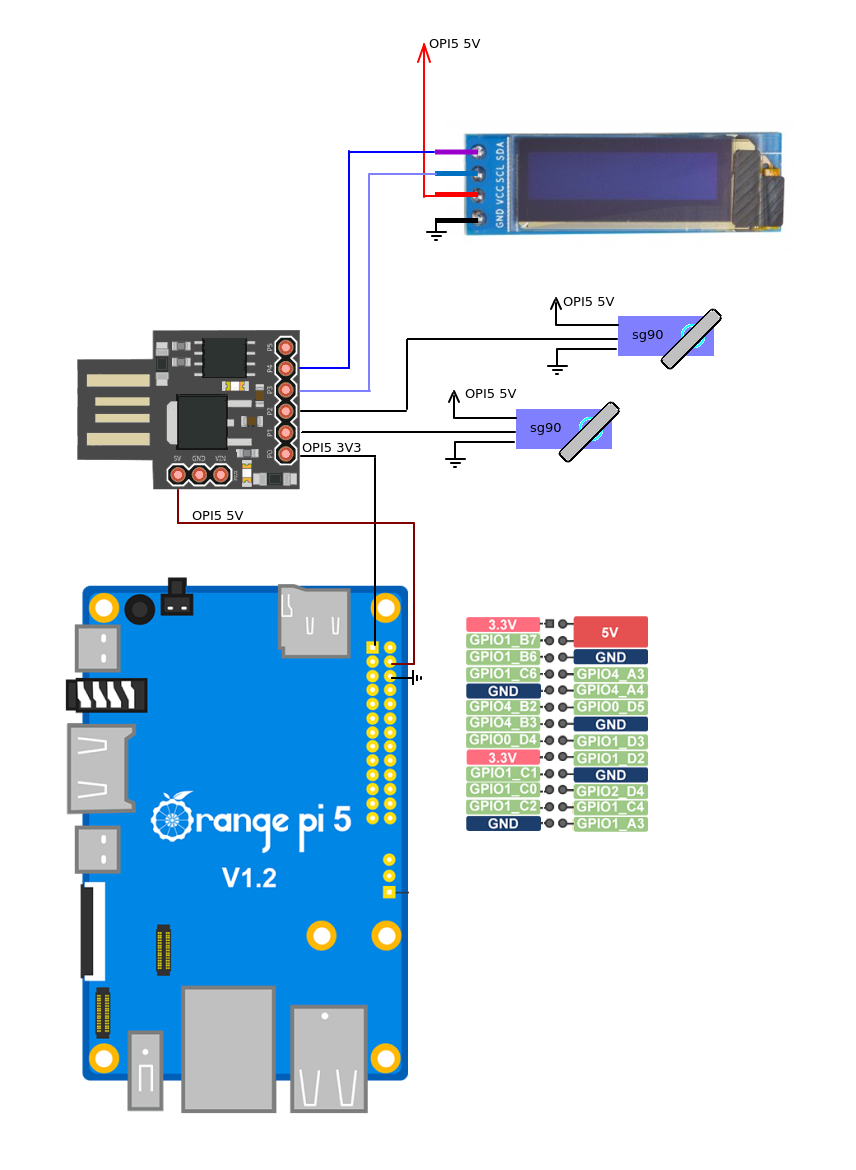
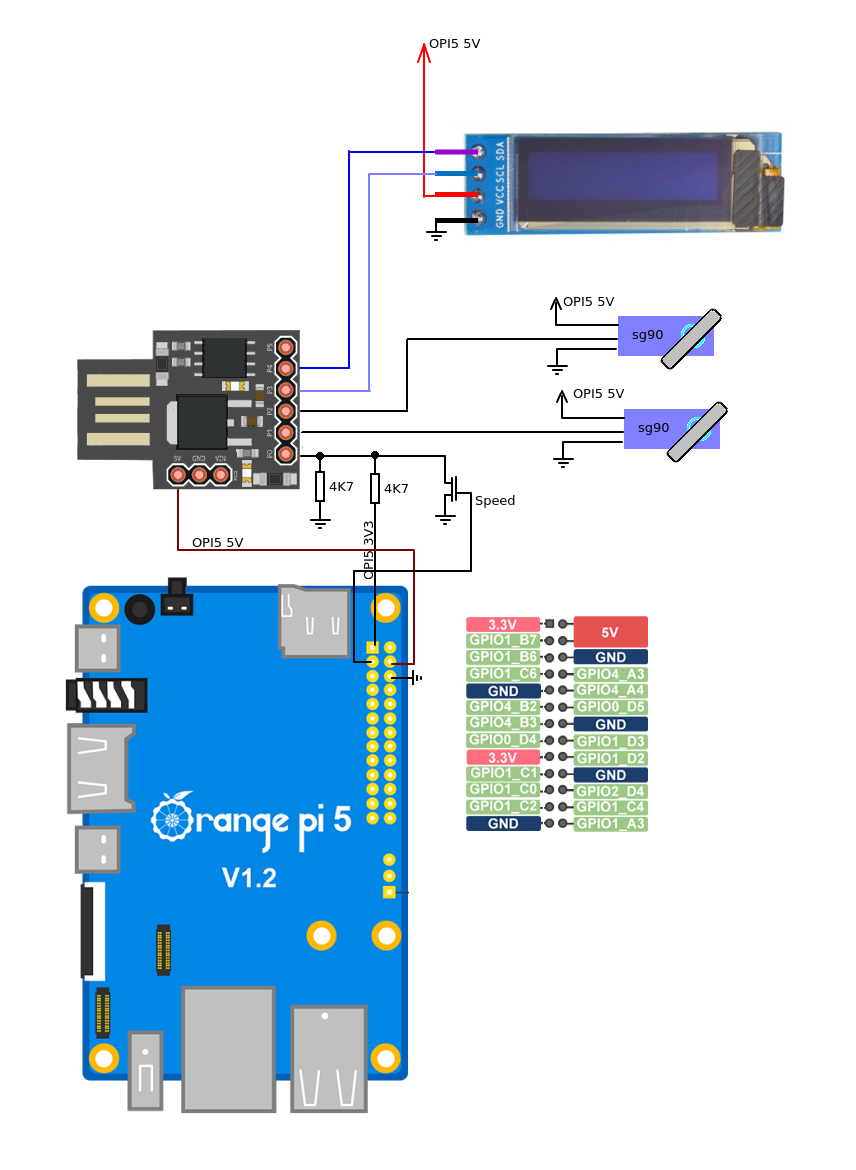
Update

diff --git a/README.md b/README.md
@@ -8,6 +8,9 @@ The servos used are SG90.
 
 The OLED LCD is a 128x64 pixel 0.96" I2C display.
 
+The pls_hart_speed.sh can set different speed 1-5 like: 
+
+       pls_hart_speed.sh <speed>
 
 
 ## Contact ##
